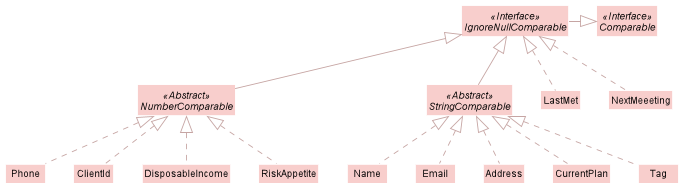
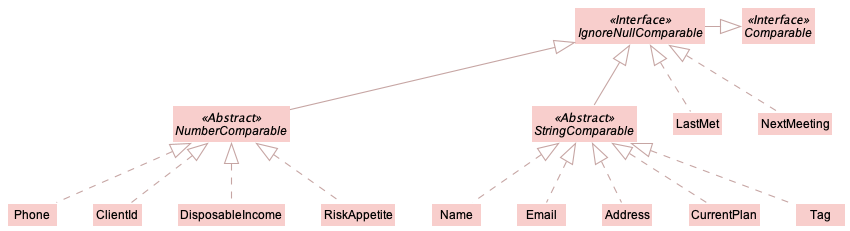
Update section numbering and IgnoreNullComparable image

diff --git a/docs/DeveloperGuide.md b/docs/DeveloperGuide.md
@@ -282,7 +282,7 @@ Phone | NumberComparable
 Address | StringComparable
 Risk Appetite | NumberComparable
 Disposable Income | Number Comparable
-Last Meeting | IgnoreNullComparable
+Last Met | IgnoreNullComparable
 Next Meeting | IgnoreNullComparable
 
 ### 3.9 Prefix Mapper
@@ -527,96 +527,10 @@ The following sequence diagram shows how the sort operation works:
 <img src="images/AbListCommandSequenceDiagram.png" />
 </p>
 
-### 4.7 Undo/redo feature
-
-#### 4.7.1 Proposed Implementation
-
-The proposed undo/redo mechanism is facilitated by `VersionedAddressBook`. It extends `AddressBook` with an undo/redo history, stored internally as an `addressBookStateList` and `currentStatePointer`. Additionally, it implements the following operations:
-
-* `VersionedAddressBook#commit()` — Saves the current address book state in its history.
-* `VersionedAddressBook#undo()` — Restores the previous address book state from its history.
-* `VersionedAddressBook#redo()` — Restores a previously undone address book state from its history.
-
-These operations are exposed in the `Model` interface as `Model#commitAddressBook()`, `Model#undoAddressBook()` and `Model#redoAddressBook()` respectively.
-
-Given below is an example usage scenario and how the undo/redo mechanism behaves at each step.
-
-Step 1. The user launches the application for the first time. The `VersionedAddressBook` will be initialized with the initial address book state, and the `currentStatePointer` pointing to that single address book state.
-
-![UndoRedoState0](images/UndoRedoState0.png)
-
-Step 2. The user executes `delete 5` command to delete the 5th client in the address book. The `delete` command calls `Model#commitAddressBook()`, causing the modified state of the address book after the `delete 5` command executes to be saved in the `addressBookStateList`, and the `currentStatePointer` is shifted to the newly inserted address book state.
-
-![UndoRedoState1](images/UndoRedoState1.png)
-
-Step 3. The user executes `add n/David …` to add a new client. The `add` command also calls `Model#commitAddressBook()`, causing another modified address book state to be saved into the `addressBookStateList`.
-
-![UndoRedoState2](images/UndoRedoState2.png)
-
-<div markdown="span" class="alert alert-info">❗ **Note:** If a command fails its execution, it will not call `Model#commitAddressBook()`, so the address book state will not be saved into the `addressBookStateList`.
-
-</div>
-
-Step 4. The user now decides that adding the client was a mistake, and decides to undo that action by executing the `undo` command. The `undo` command will call `Model#undoAddressBook()`, which will shift the `currentStatePointer` once to the left, pointing it to the previous address book state, and restores the address book to that state.
-
-![UndoRedoState3](images/UndoRedoState3.png)
-
-<div markdown="span" class="alert alert-info">❗ **Note:** If the `currentStatePointer` is at index 0, pointing to the initial AddressBook state, then there are no previous AddressBook states to restore. The `undo` command uses `Model#canUndoAddressBook()` to check if this is the case. If so, it will return an error to the user rather
-than attempting to perform the undo.
-
-</div>
-
-The following sequence diagram shows how the undo operation works:
-
-![UndoSequenceDiagram](images/UndoSequenceDiagram.png)
-
-<div markdown="span" class="alert alert-info">❗ **Note:** The lifeline for `UndoCommand` should end at the destroy marker (X) but due to a limitation of PlantUML, the lifeline reaches the end of diagram.
-
-</div>
-
-The `redo` command does the opposite — it calls `Model#redoAddressBook()`, which shifts the `currentStatePointer` once to the right, pointing to the previously undone state, and restores the address book to that state.
-
-<div markdown="span" class="alert alert-info">❗ **Note:** If the `currentStatePointer` is at index `addressBookStateList.size() - 1`, pointing to the latest address book state, then there are no undone AddressBook states to restore. The `redo` command uses `Model#canRedoAddressBook()` to check if this is the case. If so, it will return an error to the user rather than attempting to perform the redo.
-
-</div>
-
-Step 5. The user then decides to execute the command `list`. Commands that do not modify the address book, such as `list`, will usually not call `Model#commitAddressBook()`, `Model#undoAddressBook()` or `Model#redoAddressBook()`. Thus, the `addressBookStateList` remains unchanged.
-
-![UndoRedoState4](images/UndoRedoState4.png)
-
-Step 6. The user executes `clear`, which calls `Model#commitAddressBook()`. Since the `currentStatePointer` is not pointing at the end of the `addressBookStateList`, all address book states after the `currentStatePointer` will be purged. Reason: It no longer makes sense to redo the `add n/David …` command. This is the behavior that most modern desktop applications follow.
-
-![UndoRedoState5](images/UndoRedoState5.png)
-
-The following activity diagram summarizes what happens when a user executes a new command:
-
-<p align="center">
-<img src="images/CommitActivityDiagram.png" width="250" />
-</p>
-
-#### 4.7.2 Design considerations:
-
-**Aspect: How undo & redo executes:**
-
-* **Alternative 1 (current choice):** Saves the entire address book.
-    * Pros: Easy to implement.
-    * Cons: May have performance issues in terms of memory usage.
-
-* **Alternative 2:** Individual command knows how to undo/redo by
-  itself.
-    * Pros: Will use less memory (e.g. for `delete`, just save the client being deleted).
-    * Cons: We must ensure that the implementation of each individual command are correct.
-
-_{more aspects and alternatives to be added}_
-
-### 4.8 \[Proposed\] Data archiving
-
-_{Explain here how the data archiving feature will be implemented}_
-
-### 4.9 GUI Feature 
+### 4.7 GUI Feature 
 We will use this section to document implementation details regarding GUI-related features. 
 
-#### 4.9.1 Filter tag panel
+#### 4.7.1 Filter tag panel
 Filter tag panel involves the use of a listener to watch for any changes in the `UniqueTagList`. Once a change 
 is detected, it will update the UI accordingly. The tricky part is to get `UniqueTagList` to work with the `TagPanel`
 listener. We also have to constantly monitor the reference states of `UniqueTagList` so that tags panel automatically removes 
@@ -624,21 +538,22 @@ tags that are no longer referenced by any clients. For this, some sort of Garbag
 
 Below, we will see how creating and modifying the client have an effect on the `UniqueTagList`. Client modification can be 
 seen as the entry point that triggers the chain of tag modification operations and thus the UI update of the `TagPanel`.
-##### 4.9.1.1 Add a new client
+
+##### 4.7.1.1 Add a new client
 The following activity diagram summarizes what happens when a user executes an add command:
 
 <p align="center">
 <img src="images/AddUserTagActivityDiagram.png" width="250" />
 </p>
 
-##### 4.9.1.1 Edit a client
+##### 4.7.1.2 Edit a client
 The following activity diagram summarizes what happens when a user executes an edit command:
 
 <p align="center">
 <img src="images/EditUserTagActivityDiagram.png" width="300" />
 </p>
 
-##### 4.9.1.1 Delete a client
+##### 4.7.1.3 Delete a client
 The following activity diagram summarizes what happens when a user executes a delete command:
 
 <p align="center">
